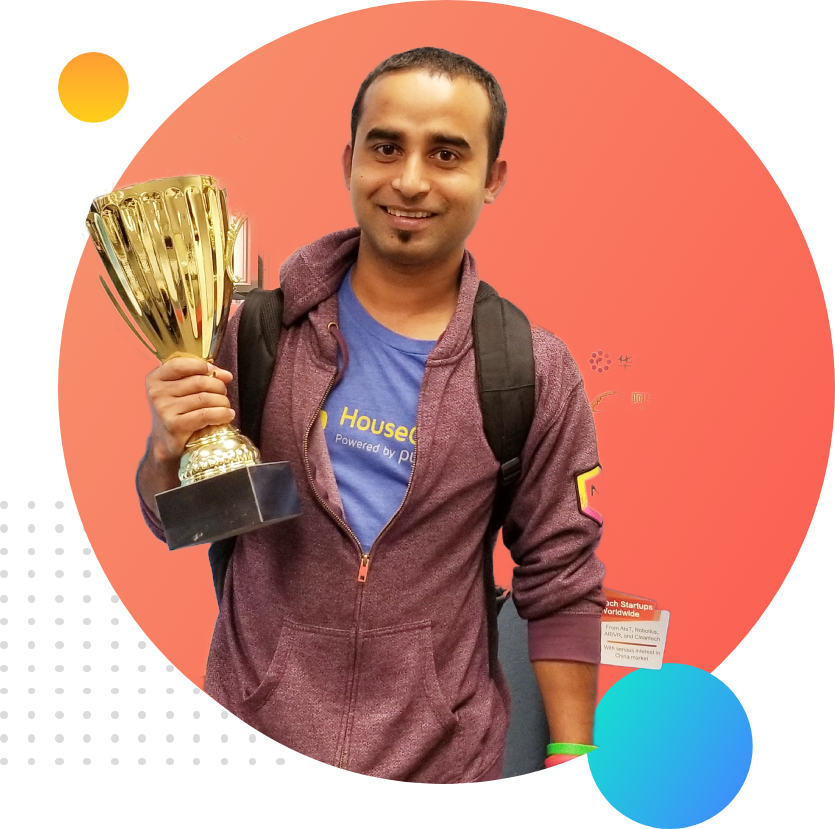
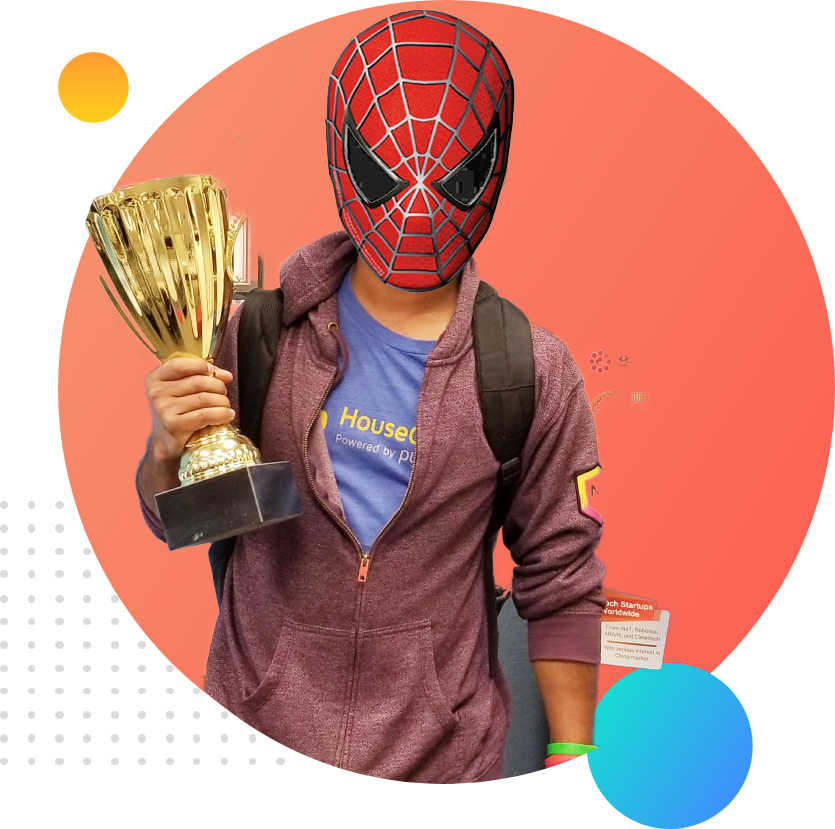
Jhankar Mahbub changed to Spiderman

Changed region(s): [[0.3737, 0.0, 0.6228, 0.3619]]

diff --git a/index.html b/index.html
@@ -4,7 +4,7 @@
     <meta charset="UTF-8">
     <meta http-equiv="X-UA-Compatible" content="IE=edge">
     <meta name="viewport" content="width=device-width, initial-scale=1.0">
-    <title>Jhankar Portfolio</title>
+    <title>Peter Parker Portfolio</title>
     <!-- Google Font -->
     <link rel="preconnect" href="https://fonts.googleapis.com">
     <link rel="preconnect" href="https://fonts.gstatic.com" crossorigin>
@@ -15,7 +15,7 @@
     <section class="top-banner flexible-container">
         <div class="half-width">
             <h1>Welcome To</h1>
-            <h1><span class="orange-color">Jhanker Mahbub</span> World!</h1>
+            <h1><span class="orange-color">Peter Parker</span> World!</h1>
             <h3>Builder Climber and Train Stopper</h3>
             <p>You might saw me jumping, climbing buildings, and stopping trains. But nobody pays me a dime for that work. That's why I am learning and mastering web development. I will not stop until I become the Web Development Hero.</p>
             <a class="link-button" href="https://www.linkedin.com/company/programminghero" target="_blank">HIRE ME</a>
@@ -54,7 +54,7 @@
     </section>
 
     <footer>
-        <p>© Peter Parker 2021, a Programming Hero initiative.</p>
+        <p>© Peter Parker 2022, a Programming Hero initiative.</p>
     </footer>
 </body>
 </html>

diff --git a/style.css b/style.css
@@ -6,7 +6,7 @@ h1{
     font-size: 50px;
 }
 h2{
-    font-size: 40px;
+    font-size: 35px;
 }
 p{
     text-align: justify;
